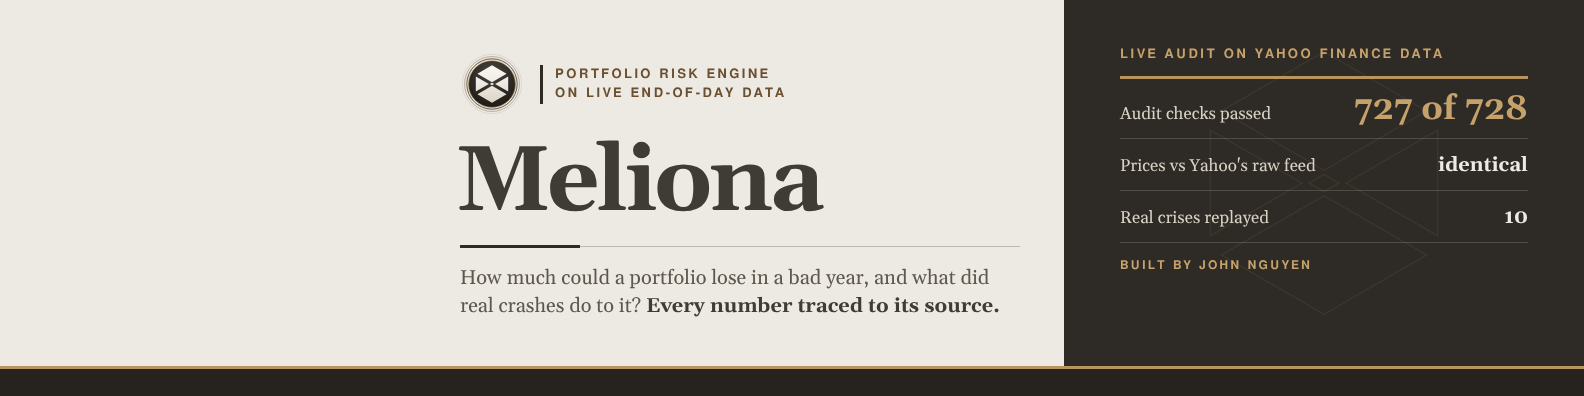
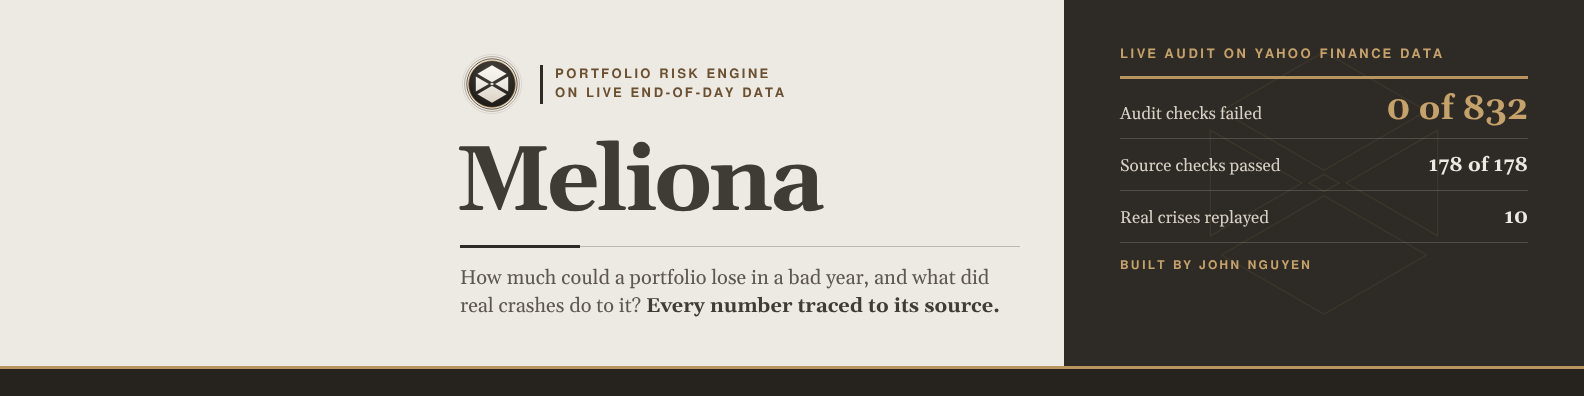
Show the latest audit on the link preview (#73)
The link preview and my LinkedIn cover now show the latest audit. I also reworded the page to be confident but say every model can be wrong.

diff --git a/tools/og_image.html b/tools/og_image.html
@@ -3,7 +3,7 @@
      iMessage show for the site's link. tools/brand_icons.mjs puts the crest from
      assets/logo.svg where the CREST comment sits and renders it.
 
-     Every figure on it is copied from audit/live_audit_2026-10-15T025826Z.md (a
+     Every figure on it is copied from audit/live_audit_2026-11-13T101321Z.md (a
      Live audit run on real Yahoo Finance data). The image carries no date (John,
      2026-11-05); when a newer live audit is committed, update the figures here.
 
@@ -108,11 +108,11 @@ h1 { font: 700 150px/0.88 var(--serif); letter-spacing: -0.035em; color: var(--i
 
 <div class="receipt">
   <h2>Live audit on Yahoo Finance data</h2>
-  <div class="row lead"><span>Audit checks passed</span><b>727 of 728</b></div>
-  <div class="row"><span>Prices vs Yahoo's raw feed</span><b>identical</b></div>
-  <div class="row"><span>T-bill, Yahoo vs Treasury</span><b>4.085% / 4.100%</b></div>
-  <div class="row"><span>SPY vs IVV, daily correlation</span><b>0.9995</b></div>
-  <p class="note">Across every preset basket. No check failed: the one that did not pass is a warning, and the audit says why.</p>
+  <div class="row lead"><span>Audit checks failed</span><b>0 of 832</b></div>
+  <div class="row"><span>Source checks passed</span><b>178 of 178</b></div>
+  <div class="row"><span>Page checks failed</span><b>0 of 388</b></div>
+  <div class="row"><span>Visitor walkthrough</span><b>no findings</b></div>
+  <p class="note">Across every preset basket. 831 passed and 1 is a warning, which the audit explains.</p>
 </div>
 
 <div class="plinth">

diff --git a/tools/linkedin_banner.html b/tools/linkedin_banner.html
@@ -11,7 +11,7 @@
      desktop, and centred-left on a phone), so that corner carries nothing but
      paper and the plinth; the words start at 460px.
 
-     The receipt's figures are copied from audit/live_audit_2026-10-15T025826Z.md,
+     The receipt's figures are copied from audit/live_audit_2026-11-13T101321Z.md,
      the same audit the share image quotes; update both together. -->
 <html lang="en">
 <head>
@@ -83,8 +83,8 @@ h1 { font: 700 92px/0.9 var(--serif); letter-spacing: -0.035em; color: var(--ink
 
 <div class="receipt">
   <h2>Live audit on Yahoo Finance data</h2>
-  <div class="row lead"><span>Audit checks passed</span><b>727 of 728</b></div>
-  <div class="row"><span>Prices vs Yahoo's raw feed</span><b>identical</b></div>
+  <div class="row lead"><span>Audit checks failed</span><b>0 of 832</b></div>
+  <div class="row"><span>Source checks passed</span><b>178 of 178</b></div>
   <div class="row"><span>Real crises replayed</span><b>10</b></div>
   <p class="by">Built by John Nguyen</p>
 </div>

diff --git a/tests/test_engine.py b/tests/test_engine.py
@@ -4563,6 +4563,41 @@ def test_the_crest_engraving_is_the_banners_and_used_sparingly():
     assert ".showcase-row::before" not in css, "a plate is drawn behind the band again"
 
 
+def test_the_link_preview_quotes_the_newest_live_audit():
+    """John, 2026-11-13: the preview still read "727 of 728" from the 15 Oct
+    audit, and that phrase reads as one failure when the 728th was a warning.
+    The banner cites the newest committed live audit receipt, and every figure
+    on it, and in the image's alt text, is printed in that receipt."""
+    import re
+    root = pathlib.Path(__file__).resolve().parent.parent
+    banner = (root / "tools" / "og_image.html").read_text(encoding="utf-8")
+    cited = re.search(r"copied from (audit/live_audit_[\w-]+\.md)", banner).group(1)
+    newest = sorted((root / "audit").glob("live_audit_*.md"))[-1]
+    assert cited == f"audit/{newest.name}", f"the banner cites {cited}, not the newest {newest.name}"
+    receipt = newest.read_text(encoding="utf-8")
+    block = banner[banner.index('<div class="receipt">'):banner.index('<div class="plinth">')]
+    alt = (root / "tools" / "public_files.py").read_text(encoding="utf-8")
+    alt = alt[alt.index('og:image:alt'):alt.index('twitter:card')]
+    figures = re.findall(r"\d[\d.,]*", re.sub(r"<[^>]+>", " ", block) + alt)
+    assert figures, "the receipt shows no figures"
+    for f in figures:
+        assert re.search(rf"(?<![\d.]){re.escape(f)}(?![\d])", receipt), f"{f} is not in {newest.name}"
+    # John's LinkedIn cover quotes the same receipt; its crisis count is the engine's own
+    from src.scenarios import HISTORICAL_REGIMES
+    cover = (root / "tools" / "linkedin_banner.html").read_text(encoding="utf-8")
+    assert re.search(r"copied from (audit/live_audit_[\w-]+\.md)", cover).group(1) == cited, \
+        "the LinkedIn cover cites another audit than the link preview"
+    rows = re.findall(r'<div class="row[^"]*"><span>([^<]+)</span><b>([^<]+)</b>', cover)
+    assert rows, "the cover shows no receipt rows"
+    for label, value in rows:
+        if label == "Real crises replayed":
+            assert value == str(len(HISTORICAL_REGIMES)), "the cover's crisis count drifted from the engine"
+            continue
+        for f in re.findall(r"\d[\d.,]*", value):
+            assert re.search(rf"(?<![\d.]){re.escape(f)}(?![\d])", receipt), \
+                f"the cover's {label!r} figure {f} is not in {newest.name}"
+
+
 def test_public_files_give_crawlers_and_link_previews_a_real_head(tmp_path=None):
     """LinkedIn/Slack previews and search crawlers do not run JavaScript, so
     tools/public_files.py writes the head they read into Streamlit's static
@@ -6857,7 +6892,7 @@ def test_the_contact_form_writes_to_john_and_linkedin_is_the_second_way():
     # John, 2026-11-09: his own words, first person, passionate about building
     # tools with AI and still corporate - no promise, no advice
     assert hero.ABOUT_BIO.startswith("Hello! I am John") and "Building tools with AI" in hero.ABOUT_BIO
-    assert "check every number" in hero.ABOUT_BIO
+    assert "check every number" in hero.ABOUT_BIO and "what I got wrong" in hero.ABOUT_BIO
     assert not any(w in hero.ABOUT_BIO.lower() for w in ("guarantee", "should buy", "will make", "!!"))
     assert "&amp; Analytics" in hero.about_html(), "the bio's ampersand is escaped in the page"
 
@@ -7499,6 +7534,40 @@ def test_the_story_and_the_faq_say_the_same_thing():
                     "hold each other up", "will do well", "safe"):
         assert promise not in story, f"the story promises what the FAQ disclaims: {promise!r}"
     assert "cannot say how a stock will do" in story, "the story must say it forecasts nothing"
+
+
+def test_the_page_is_confident_and_says_it_can_be_wrong():
+    """John, 2026-11-13: "have confidence but have humbleness". The page keeps
+    its confident, true claims (every number computed from live prices and
+    checked a second way, a trading desk's bar, John replies within 2 business
+    days) and promises no outcome. Where it explains the numbers it also says,
+    as a fact of every model, that they can be wrong, and asks to hear about a
+    mistake so it can be fixed and learned from."""
+    import re
+    import hero
+    import tools.public_files as pf
+    root = pathlib.Path(__file__).resolve().parent.parent
+    main = (root / "main.py").read_text(encoding="utf-8")
+    thanks = re.sub(r"<[^>]+>", " ", (root / "public" / "thanks.html").read_text(encoding="utf-8"))
+    orient = main[main.index('<div class="orient-f">'):main.index("# ---- The cockpit")]
+    faq = " ".join(a for _, a in hero.FAQS)
+    story = " ".join(hero.STORY)
+    words = " ".join([hero.HERO_SUB, hero.ABOUT_BIO, story, faq, thanks, orient, pf.DESCRIPTION]).lower()
+    for promise in ("guarantee", "risk-free", "can't lose", "cannot lose", "will make you",
+                    "no risk", "always right", "never wrong"):
+        assert promise not in words, f"the page promises an outcome: {promise!r}"
+    # confident: John's own lines stay (2026-11-13)
+    assert "every number is computed" in orient.lower() and "check every number" in hero.ABOUT_BIO
+    assert hero.RESPONSE_TIME == "John replies within 2 business days."
+    assert "a barrier is fixed as a defect" in main
+    # humble: the cons are said out loud
+    for name, text in (("the FAQ", faq), ("the story", story)):
+        assert "wrong" in text.lower(), f"{name} must say the numbers can be wrong"
+    assert "estimate" in orient.lower(), "How to use this page must call each number an estimate"
+    assert re.search(r"tell (john|me)", (faq + story + hero.ABOUT_BIO).lower()), \
+        "invite the visitor to point out a mistake"
+    assert re.search(r"\bfix", story.lower()) and re.search(r"\blearn", story.lower()), \
+        "say mistakes get fixed and learned from"
 
 
 def test_a_waiting_press_yields_only_to_the_readers_own_hand():

diff --git a/hero.py b/hero.py
@@ -123,9 +123,10 @@ PERSON_ROLE = "Computer Information Systems student specializing in AI & Analyti
 # with AI, and still corporate and clean.
 ABOUT_BIO = ("Hello! I am John, a Computer Information Systems student specializing "
              "in AI & Analytics. Building tools with AI is the work I go deepest on: "
-             "I pick one problem and stay with it until every detail holds. I built "
-             "Meliona that way, from the price feed to the risk engine to this page. "
-             "Its code is public so that anyone can check every number.")
+             "I pick one problem and stay with it until every detail holds, and I learn "
+             "from whatever breaks on the way. I built Meliona that way, from the price feed "
+             "to the risk engine to this page. Its code is public, so anyone can check every "
+             "number and tell me what I got wrong.")
 # Where the contact form's email goes (John, 2026-11-05: his personal inbox,
 # "I'm more active there"), with LinkedIn as the second way to reach him.
 # main.py reads it through host_setting("CONTACT_EMAIL", ...) so a deployment
@@ -239,9 +240,10 @@ STORY = (
     "anchor of its own. Then the whole portfolio faces real crashes and "
     f"{N_PATHS:,} simulated years.",
     "I am a student, and I hold this to a trading desk's bar. The prices are live, the "
-    "code is public, and the numbers are checked a second way on every change. Meliona "
+    "code is public, and the numbers are checked a second way on every change. It will still get some "
+    "things wrong. When it does, I want to hear it, so I can fix it and learn. Meliona "
     "does not tell anyone what to buy, and it cannot say how a stock will do. It is "
-    "built for people like my dad. Ask which stock you can rely on, and you get the "
+    "built for people like my dad. Ask which stock you can rely on, and you get "
     "evidence to weigh it yourself.",
 )
 
@@ -282,11 +284,13 @@ FAQS = (
      "Live end-of-day prices from Yahoo Finance, run through the engine's own public code. "
      "No market figure is typed in by hand or written by an AI model. The few fixed "
      "settings, like the crisis dates, are printed on the page. The drawer at the end of "
-     "the analysis shows the source and when each price was pulled."),
+     "the analysis shows the source and when each price was pulled. Spot a mistake? "
+     "Tell John below, so he can fix it."),
     ("Is this investment advice?",
      "No. Meliona is a student project built for learning. It shows what happened and "
      "simulates years that could happen. It does not tell anyone what to buy or sell, "
-     "and nothing on it is a forecast."),
+     "and nothing on it is a forecast. Like any model, it simplifies real markets, so "
+     "its numbers can be wrong."),
     ("What is grit?",
      "Our word for getting back up after a fall. It scores how fast and how fully a stock "
      "won back its own drops of 5% or more. It counts how often a year of holding it "

diff --git a/tools/public_files.py b/tools/public_files.py
@@ -172,7 +172,7 @@ def head_tags(site_url: str, build: str = "") -> str:
         f'<meta property="og:image:width" content="1200">\n'
         f'<meta property="og:image:height" content="627">\n'
         f'<meta property="og:image:alt" content="The Meliona crest and name beside '
-        f'its live audit on Yahoo Finance data: 727 of 728 checks passed">\n'
+        f'its live audit on Yahoo Finance data: 0 of 832 checks failed">\n'
         f'<meta name="twitter:card" content="summary_large_image">\n'
         # Structured data: a data block, never run - the meta CSP above sets no
         # script policy, and application/ld+json is not executed in any case.

diff --git a/main.py b/main.py
@@ -1149,7 +1149,8 @@ st.markdown(
     'simulated years. Everything below it shows the working.</li>'
     '</ol>'
     '<div class="orient-f">Nothing here is advice. Every number is computed '
-    'from live end-of-day prices, and every tab shows its method.</div>'
+    'from live end-of-day prices, and every tab shows its method. Like any '
+    'model, it simplifies, so read each number as an estimate.</div>'
     '</div>',
     unsafe_allow_html=True)
 

diff --git a/audit/live_audit_2026-11-13T101321Z.md b/audit/live_audit_2026-11-13T101321Z.md
@@ -1,0 +1,44 @@
+# Live audit - 2026-11-13T101321Z
+
+Real Yahoo Finance data, run on a GitHub Actions runner. Workflow:
+`.github/workflows/live-audit.yml`, run #278 (run id 43403176227), on `main`
+at commit `3b444ab`, every step green:
+https://github.com/ricepillow3000/Summer-2026-Quant-Project-Risk-Engine-Blueprint/actions/runs/43403176227
+
+Each line quoted below is copied from that job's log. Steps 0 and 1 printed
+before the last 5,000 lines the log tools can read, so only their verdicts
+are here (step 12 repeats the provenance verdict at the end of the log). The
+full files are in the run's `live-audit` artifact: `provenance.log` and
+`audit/batch_audit_2026-11-13T094537Z.md`.
+
+## 1. Provenance - is every number Yahoo's?
+
+    178/178 provenance checks pass
+
+No FAIL line.
+
+## 3. Batch audit, every preset - 832 checks, 831 pass, 0 FAIL, 1 warn
+
+    832 checks: 831 pass, 0 FAIL, 1 warn
+
+The one warning is MAP-12 (Multi-sector blue chips): the map's 68.3% ring
+held 58.6% of realized 30-day states walk-forward over 58 dates, with 10
+effective blocks; on that few blocks the check flags only coverage outside
+[23%, 100%]. A WARN by design, never a failure.
+
+## 4. First-time visitor walkthrough
+
+    No findings. A first-time visitor hits nothing broken, nothing unexplained, and can find their own ticker.
+
+## 5-9. The deployed site and this commit in a browser
+
+    all site checks pass
+    all security checks pass
+    all arrival checks passed
+    14 steps in 30s - recruiter walk clean
+
+## 10. Deep scan of this commit, full depth, live data
+
+    388 checks: 375 pass, 0 fail, 0 warn, 13 info
+
+(The 13 are information lines, not findings.)
